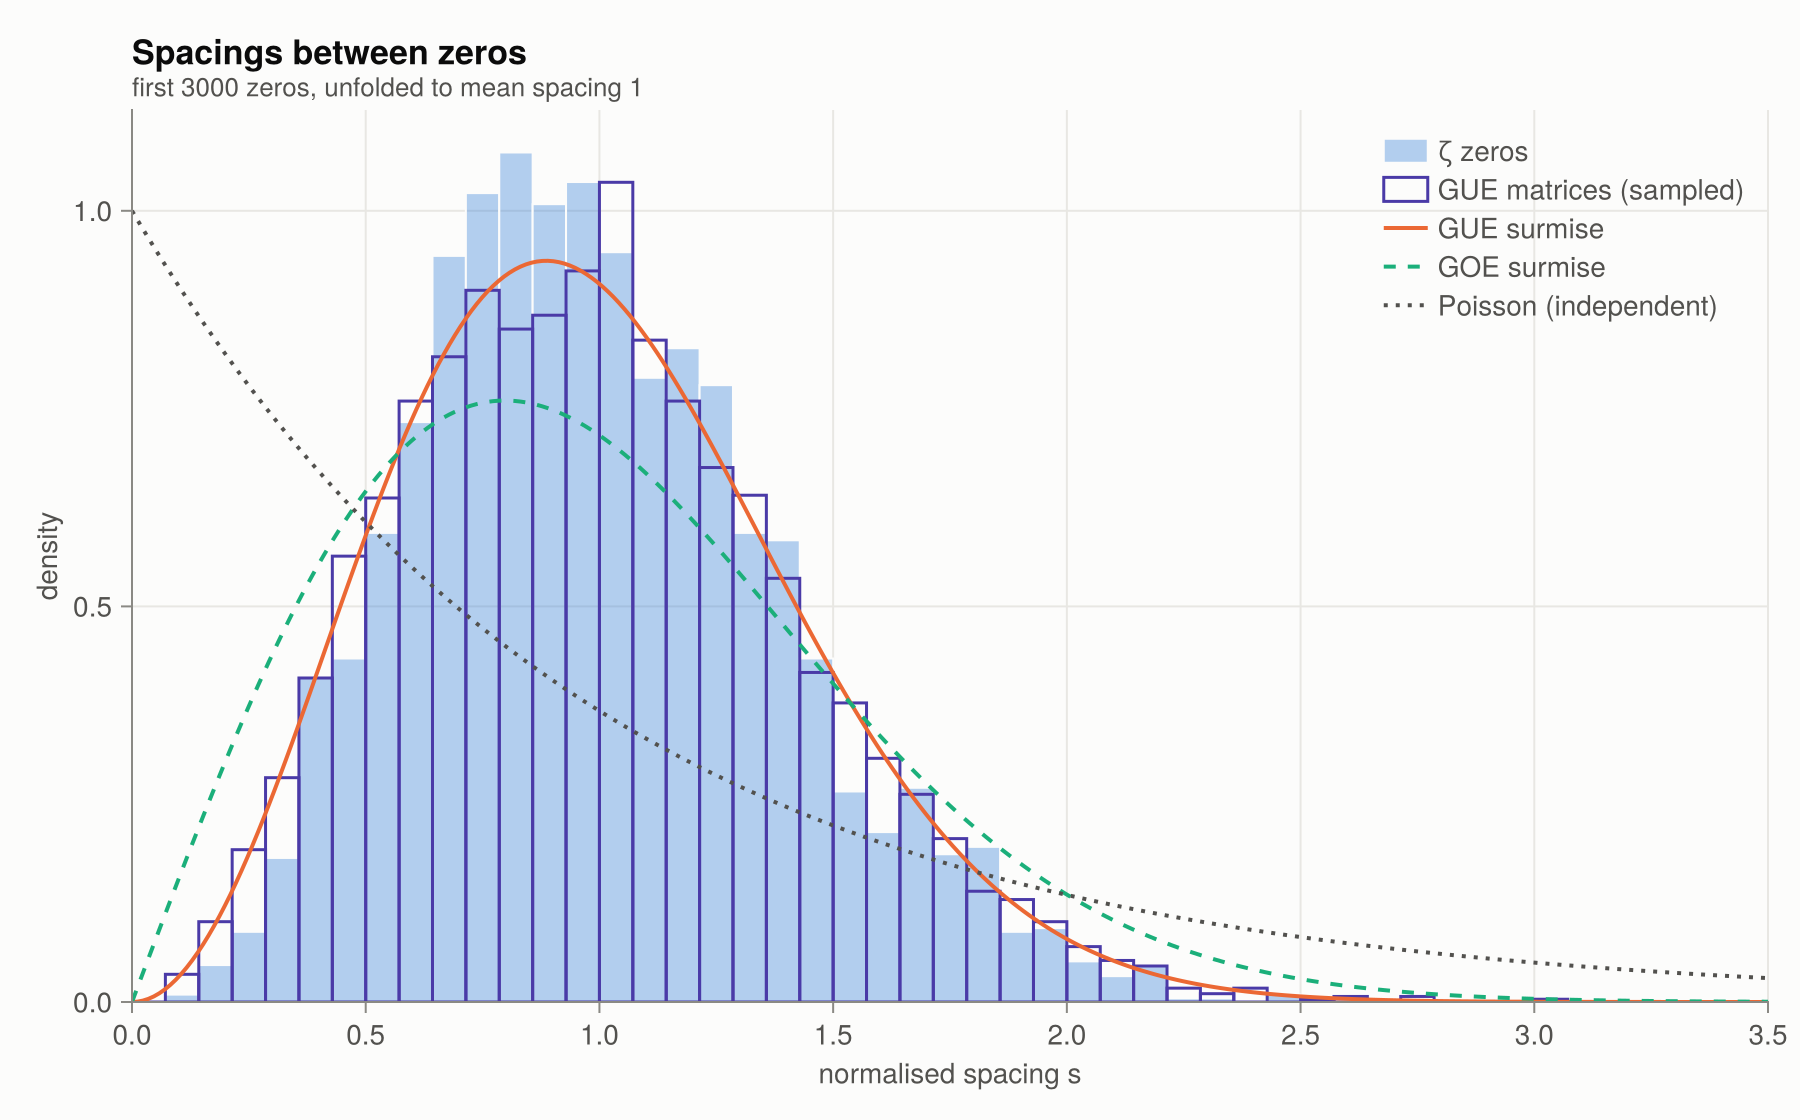
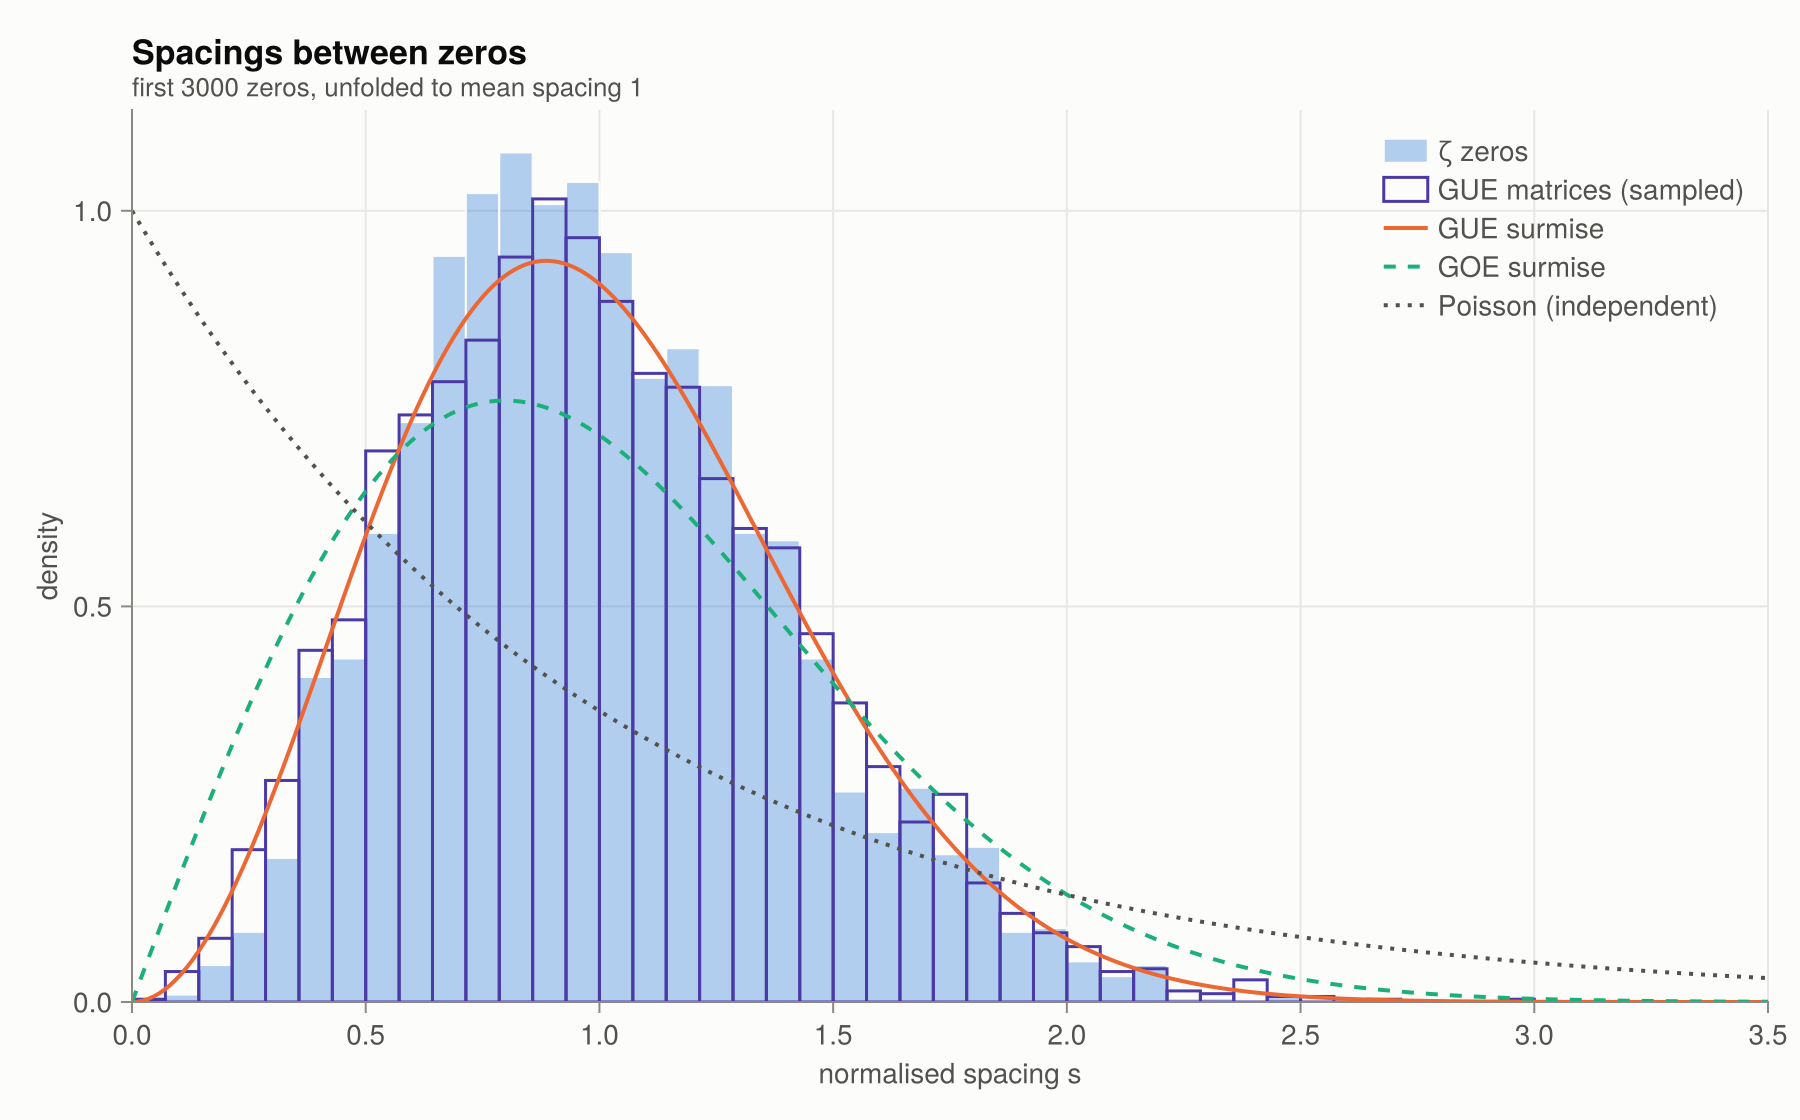
Spiral illustrations: partial-sum spirals, zoom on the origin, animation
- partial_sums(s, N; series, corrected): paths of Dirichlet-series partial
  sums (raw spiral outward around ζ(s); Euler–Maclaurin-corrected spiral
  inward onto ζ(s), the origin at a zero).
- plot_partial_sum_spiral, plot_zeta_near_origin, record_zeta_spiral (GIF).
- Docs: "Spirals near zero" section in chapter 5, embedded animation.
- Fix: use float colour vectors (integer ranges are pathologically slow in
  CairoMakie) and avoid vcat(Point2f, …), which splices coordinates.

diff --git a/docs/src/chapters/05_nontrivial_zeros.md b/docs/src/chapters/05_nontrivial_zeros.md
@@ -77,6 +77,41 @@ Off the line, at ``\sigma = 0.6``, the curve misses the origin, at least for the
 plot_zeta_spiral()
 ```
 
+### Spirals near zero
+
+There is a second spiral picture, popularised by Quanta Magazine's explainer. Fix ``s = \tfrac12 + it`` and draw
+the terms ``1, 2^{-s}, 3^{-s}, \dots`` head to tail, as a chain of vectors. The ``n``-th vector has length
+``n^{-1/2}`` and turns by ``-t\log n``. Once ``n \gtrsim t/2\pi`` consecutive vectors point in nearly the same
+direction, and the chain becomes a smooth spiral.
+
+On the critical line the series diverges, so the raw chain spirals **outward**, but it winds around a fixed
+centre: ``S_n - \zeta(s) \approx \frac{n^{1-s}}{1-s}``. The centre is exactly ``\zeta(s)``. Subtracting the
+Euler–Maclaurin correction (`partial_sums(s, N; corrected = true)`) turns the outward spiral into one that winds
+**inward** onto the centre. At a nontrivial zero that centre is the origin:
+
+```@example ch5
+plot_partial_sum_spiral()
+```
+
+Zooming in on the origin itself, the curve ``t \mapsto \zeta(\sigma + it)`` passes **through** 0 only for
+``\sigma = \tfrac12``, once for every zero. The lines ``\sigma = 0.4`` and ``0.6`` loop around the origin but never
+touch it, at least at these heights:
+
+```@example ch5
+plot_zeta_near_origin()
+```
+
+Putting the two together as an animation, the left panel traces ``\zeta(\tfrac12 + it)`` while the right panel shows
+the vector-chain spiral at the current ``t``. Its centre is the orange point, which passes through the origin at each
+zero:
+
+```@example ch5
+record_zeta_spiral("zeta_spiral.gif"; tmax = 40, frames = 120, framerate = 12)
+nothing # hide
+```
+
+![animated spiral of partial sums along the critical line](zeta_spiral.gif)
+
 ## The Riemann–Siegel formula
 
 Computing ``\zeta(\tfrac12 + it)`` by Euler–Maclaurin costs ``O(t)`` operations. Siegel (1932), working from
@@ -200,4 +235,4 @@ close_pairs(nontrivial_zeros(3000); k = 3)
 [`gram_point`](@ref), [`gram_points`](@ref), [`gram_law_violations`](@ref), [`argzeta_S`](@ref),
 [`riemann_von_mangoldt`](@ref), [`zero_count`](@ref), [`zeros_between`](@ref),
 [`nontrivial_zeros`](@ref), [`check_zeros`](@ref), [`close_pairs`](@ref), [`RH_VERIFIED_HEIGHT`](@ref),
-[`zero_free_boundary`](@ref).
+[`zero_free_boundary`](@ref), [`partial_sums`](@ref).

diff --git a/README.md b/README.md
@@ -55,7 +55,8 @@ CairoMakie is a weak dependency, and `using CairoMakie` activates `ext/Riemannia
 `plot_critical_line` · `plot_zeta_spiral` · `plot_zero_counting` · `plot_xi` · `plot_explicit_formula` ·
 `plot_prime_staircase` · `plot_spacing_distribution` · `plot_pair_correlation` · `plot_robin` ·
 `plot_zero_density` · `plot_heat_flow` · `plot_timeline` · `plot_critical_strip` · `plot_strip_schematic` ·
-`plot_strip_width` · `gallery`
+`plot_strip_width` · `plot_partial_sum_spiral` · `plot_zeta_near_origin` · `record_zeta_spiral` (animated GIF) ·
+`gallery`
 
 Continuous colour scales use **viridis**.
 
@@ -65,6 +66,7 @@ Continuous colour scales use **viridis**.
 |---|---|
 | ![](figures/10_critical_line.png) | ![](figures/15_prime_staircase.png) |
 | ![](figures/16_spacing_distribution.png) | ![](figures/20_heat_flow.png) |
+| ![](figures/25_partial_sum_spiral.png) | ![](figures/zeta_spiral.gif) |
 
 ## How it works (numerics)
 

diff --git a/docs/src/gallery.md b/docs/src/gallery.md
@@ -75,6 +75,14 @@ plot_zeta_spiral(tmax = 35)
 ```
 
 ```@example gal
+plot_partial_sum_spiral(zero_t = KNOWN_ZEROS[2], other_t = 23.0)
+```
+
+```@example gal
+plot_zeta_near_origin(tmax = 60, window = 0.8)
+```
+
+```@example gal
 plot_zero_counting(T = 200)
 ```
 

diff --git a/docs/src/api.md b/docs/src/api.md
@@ -63,6 +63,7 @@ completed_zeta
 xi
 Xi
 loggamma_c
+partial_sums
 ```
 
 ## Zeros
@@ -169,6 +170,9 @@ plot_timeline
 plot_critical_strip
 plot_strip_schematic
 plot_strip_width
+plot_partial_sum_spiral
+plot_zeta_near_origin
+record_zeta_spiral
 gallery
 ```
 
